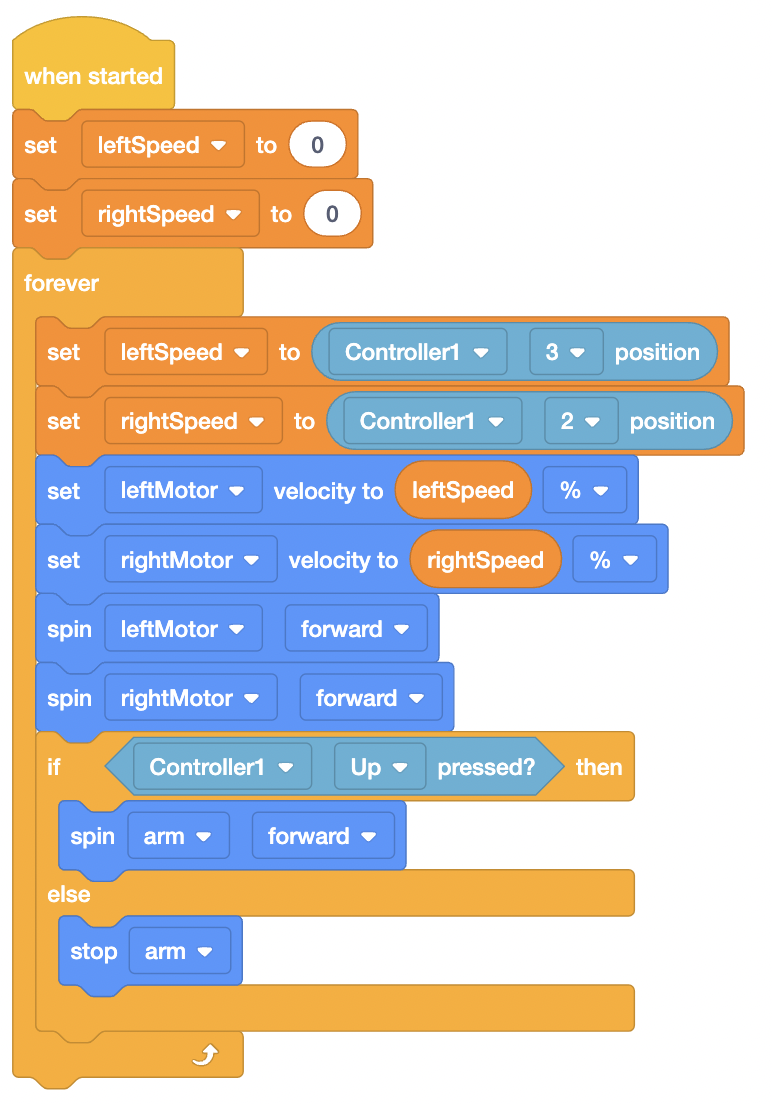
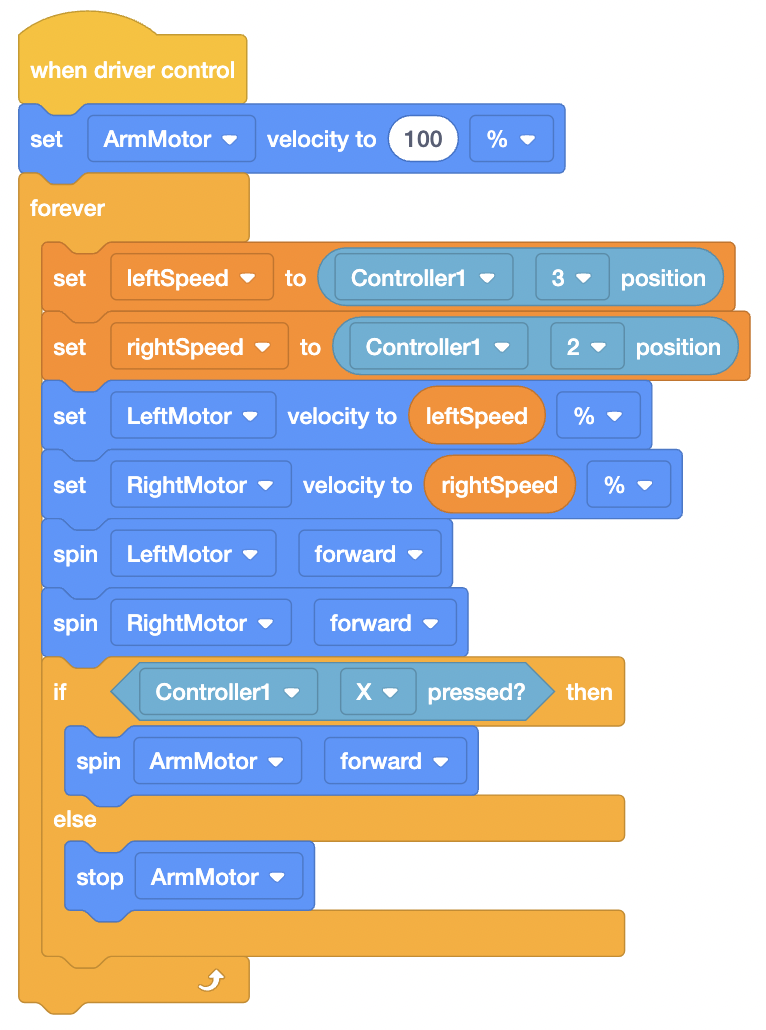
updated

diff --git a/index.html b/index.html
@@ -115,6 +115,33 @@
             color: #5F5F5F;
             margin: 0 0 10px 0;
         }
+
+        code {
+            background-color: #f1f1f1;
+            padding: 2px 5px;
+            border-radius: 5px;
+        }
+
+        .flex-container {
+            display: flex;
+            flex-wrap: wrap;
+            justify-content: center;
+        }
+
+        /* Aligns items into a row */
+        .flex-item {
+            flex: 1 1 200px;
+            /* margin: 10px; */
+            /* padding: 10px; */
+            /* border: 1px solid #e8e8e8; */
+            /* border-radius: 5px; */
+            text-align: center;
+            background-color: #ffffff;
+        }
+
+        hr {
+            border: 1px solid #e8e8e8;
+        }
     </style>
 </head>
 
@@ -136,8 +163,8 @@
             <p>You'll learn far more by testing the limits of your own code than you will from
                 this website.</p>
             <h3>Resources</h3>
-            <p>There are many resources available to you. The most important is the <a
-                    href="https://api.vexcode.cloud/v5/" target="_blank">VEX API</a> for C++.</p>
+            <p>There are many resources available to you. The most important in C++ is the <a
+                    href="https://api.vexcode.cloud/v5/" target="_blank">VEX API</a>.</p>
             <p><a href="https://www.vexforum.com/" target="_blank" rel="noopener noreferrer">VEX
                     Forum</a> is a great place to ask questions about anything VEX related.</p>
             <p>I recommend <a href="https://cs50.harvard.edu/x/2022/" target="_blank" rel="noopener noreferrer">Harvard
@@ -146,6 +173,9 @@
                 <a href="https://youtu.be/ZEQh45W_UDo" target="_blank" rel="noopener noreferrer">Python</a>, and
                 <a href="https://youtu.be/zYierUhIFNQ" target="_blank" rel="noopener noreferrer">C</a> lectures
                 are particularly useful.
+            </p>
+            <a href="https://www.youtube.com/watch?v=DO2IsBFMgTg&list=PLvvcc7S26YEgjnEMSjmKd5pxswwWCwN1n&index=1"
+                target="_blank" rel="noopener noreferrer">Offical VEX Blocks Tutorial Series</a>
             </p>
             <h3>What To Program With</h3>
             <p>There are a variety of ways to program using the <a href="https://www.vexrobotics.com/vexcode"
@@ -197,16 +227,89 @@
                     </tr>
                 </tbody>
             </table>
+            <p>Since Purdue Pros uses different syntax, it will not be covered in this guide.</p>
             <h1>User Control</h1>
+            <ul>
+                <li></li>
+            </ul>
+            <hr>
+            <h3>Getting Started</h3>
+            <p>Open up your editor of choice, and create a blank project.</p>
+            <p>It's very important the project name is clear on what it does, otherwise, you may run the wrong
+                program
+                in competition.</p>
+            <p>But for now, call it <code>testUserControl</code>.</p>
+            <p>You should now see block, Python or C++ code in front of you.</p>
+            <p>If you are using C++, the most important file is <code>src > main.cpp</code></p>
+
+
+            <h3>Setting Up Motors</h3>
+            <p>Whenever possible, I recommend setting up motors in the <b>Devices</b> tab of the VEXCode.</p>
+            <!-- TOP -->
+            <!-- <p>To set up motors in the <b>Robot</b> tab of VEXCode:</p> -->
+            <ol>
+                <!-- <li>1. Click on the <code>Robot</code> tab in the top menu.</li> -->
+                <li>1. In the <code>Motors</code> section, click the "+" button to add a new motor.</li>
+                <li>2. In the <code>Name</code> field, enter a descriptive name for the motor (e.g. "LeftMotor",
+                    "RightMotor",
+                    "ArmMotor").</li>
+                <li>3. In the <code>Device</code> field, select the port that the motor is plugged into.</li>
+                <li>4. Click the <code>Add</code> button to save the motor.</li>
+                <li>5. Repeat the above steps for each motor you want to add.</li>
+            </ol>
+            <h3>Setting Up Controllers</h3>
+            <p>Similar to setting up motors, you can set up controllers in the <b>Robot</b> tab of VEXCode.</p>
+            <ol>
+                <!-- <li>1. Click on the <code>Robot</code> tab in the top menu.</li> -->
+                <li>1. In the <code>Controllers</code> section, click the "+" button to add a new controller.</li>
+                <li>2. In the <code>Name</code> field, enter a descriptive name for the controller (e.g.
+                    "Controller1",
+                    "Controller2").</li>
+                <li>3. In the <code>Type</code> field, select the type of controller you are using (e.g. VEX
+                    Gamepad,
+                    VEX Wireless
+                    Gamepad).</li>
+                <li>4. Click the "Add" button to save the controller.</li>
+            </ol>
+
+
+
+            <!-- BOTTOM -->
+            <h3>Putting It All Together</h3>
             <p>In order to drive the robot, there first must be code bridging the gap between controller and
                 hardware. </p>
             <p>User Control code boils down to this:</p>
+            <ol>
+                <li>1. Initialize</li>
+                <li>2. Get joystick information</li>
+                <li>3. Respond to joystick information</li>
+                <li>4. Respond to any buttons pushed</li>
+                <li>5. Repeat #2</li>
+            </ol>
+
             <!-- usercontrol.png -->
-            <center><img src="static/usercontrol.png" alt="usercontrol.png"></center>
+            <!-- <center><img src="static/usercontrol.png" alt="usercontrol.png" width="30%" height="auto"></center> -->
+            <!-- flexbox to put static/userControlPP.png, and 2 other photos into a ROW -->
+            <div class="flex-container">
+                <div class="flex-item">
+                    <img src="static/usercontrol.png" alt="userControlScratch.png" width="100%" height="auto">
+                </div>
+                <div class="flex-item">
+                    <img src="static/userControlScratch.png" alt="userControlCPP.png" width="100%" height="auto">
+                </div>
+                <div class="flex-item">
+                    <img src="static/userControlPython.png" alt="userControlPython.png" width="100%" height="auto">
+                </div>
+                <div class="flex-item">
+                    <img src="static/userControlCPP.png" alt="userControlBlocks.png" width="100%" height="auto">
+                </div>
+            </div>
+
 
 
 
             <h1>Competition Template</h1>
+            <hr>
             <p>The competition template is a good place to start.</p>
             <p>When the competition organizers begin the autonomous and driver control period, the code must
                 be organized to know which <a
